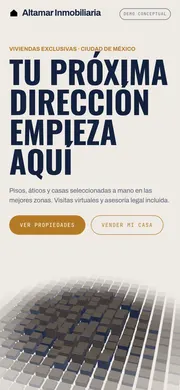
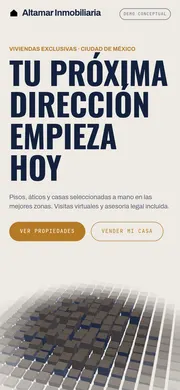
Ajustes: interlineado/tildes, etiquetas de tecnología, contraste en galería, docs

diff --git a/index.html b/index.html
@@ -22,7 +22,8 @@ h1 span{display:block} h1 span:last-child{color:#2f63ff}
 .hero p.l{margin-top:26px;max-width:640px;color:#a9adb8;font-size:clamp(15px,1.3vw,19px)}
 .links{margin-top:26px;display:flex;flex-wrap:wrap;gap:12px}
 .pill{display:inline-flex;align-items:center;height:40px;padding:0 20px;border-radius:99px;border:1.3px solid var(--a,#2f63ff);color:var(--a,#2f63ff);font-size:11px;transition:.25s}
-.pill.f{background:var(--a,#2f63ff);color:#0d0d0f}
+.pill.f{background:var(--a,#2f63ff);color:#fff;mix-blend-mode:normal}
+.pill:not(.f){color:#ececec}
 .pill:hover{background:#fff;border-color:#fff;color:#0d0d0f}
 .grid{display:grid;grid-template-columns:repeat(auto-fill,minmax(min(100%,420px),1fr));gap:clamp(18px,2vw,28px);padding:0 clamp(20px,4vw,56px) 12vh}
 .v{background:#16161a;border:1px solid #24242a;border-radius:10px;overflow:hidden;display:flex;flex-direction:column}
@@ -54,25 +55,25 @@ footer{border-top:1px solid #24242a;padding:24px clamp(20px,4vw,56px);font-size:
 </article><article class="v" style="--a:#0fa3a0">
   <a class="th" href="02-ogl/"><img src="thumbs/02-ogl.webp" width="800" height="500" loading="lazy" alt="Vista de escritorio de Clínica Dental Lumen"><img class="ph" src="thumbs/02-ogl-m.webp" width="180" height="390" loading="lazy" alt="Vista móvil"></a>
   <div class="meta"><span class="m n">02</span><h2 class="d">Clínica Dental Lumen</h2><p class="niche">Clínica dental</p>
-  <p class="tech m">OGL (≈ 8 KB gz usados)</p>
+  <p class="tech m">OGL (micro-librería WebGL)</p>
   <dl class="m"><div><dt>JS gzip</dt><dd>15.7 KB</dd></div><div><dt>Página gzip</dt><dd>84.5 KB</dd></div><div><dt>FPS móvil*</dt><dd>60.3</dd></div></dl>
   <div class="ac"><a class="pill f m" href="02-ogl/">Abrir demo</a><a class="pill m" href="https://github.com/0xDapa/escalatam-web-lab/tree/main/02-ogl">Código y notas</a></div></div>
 </article><article class="v" style="--a:#b47a26">
   <a class="th" href="03-twgl/"><img src="thumbs/03-twgl.webp" width="800" height="500" loading="lazy" alt="Vista de escritorio de Altamar Inmobiliaria"><img class="ph" src="thumbs/03-twgl-m.webp" width="180" height="390" loading="lazy" alt="Vista móvil"></a>
   <div class="meta"><span class="m n">03</span><h2 class="d">Altamar Inmobiliaria</h2><p class="niche">Inmobiliaria</p>
-  <p class="tech m">TWGL (helpers WebGL, ≈ 12 KB gz)</p>
+  <p class="tech m">TWGL (helpers WebGL2)</p>
   <dl class="m"><div><dt>JS gzip</dt><dd>15.4 KB</dd></div><div><dt>Página gzip</dt><dd>82.2 KB</dd></div><div><dt>FPS móvil*</dt><dd>60.0</dd></div></dl>
   <div class="ac"><a class="pill f m" href="03-twgl/">Abrir demo</a><a class="pill m" href="https://github.com/0xDapa/escalatam-web-lab/tree/main/03-twgl">Código y notas</a></div></div>
 </article><article class="v" style="--a:#c6ff00">
   <a class="th" href="04-regl/"><img src="thumbs/04-regl.webp" width="800" height="500" loading="lazy" alt="Vista de escritorio de Pulso Fitness"><img class="ph" src="thumbs/04-regl-m.webp" width="180" height="390" loading="lazy" alt="Vista móvil"></a>
   <div class="meta"><span class="m n">04</span><h2 class="d">Pulso Fitness</h2><p class="niche">Gimnasio / box</p>
-  <p class="tech m">regl (WebGL funcional, ≈ 26 KB gz)</p>
+  <p class="tech m">regl (WebGL funcional)</p>
   <dl class="m"><div><dt>JS gzip</dt><dd>33.2 KB</dd></div><div><dt>Página gzip</dt><dd>96.3 KB</dd></div><div><dt>FPS móvil*</dt><dd>60.0</dd></div></dl>
   <div class="ac"><a class="pill f m" href="04-regl/">Abrir demo</a><a class="pill m" href="https://github.com/0xDapa/escalatam-web-lab/tree/main/04-regl">Código y notas</a></div></div>
 </article><article class="v" style="--a:#8a1c2b">
   <a class="th" href="05-picogl/"><img src="thumbs/05-picogl.webp" width="800" height="500" loading="lazy" alt="Vista de escritorio de Ortega &amp; Vidal"><img class="ph" src="thumbs/05-picogl-m.webp" width="180" height="390" loading="lazy" alt="Vista móvil"></a>
   <div class="meta"><span class="m n">05</span><h2 class="d">Ortega &amp; Vidal</h2><p class="niche">Despacho de abogados</p>
-  <p class="tech m">PicoGL (WebGL2, ≈ 20 KB gz)</p>
+  <p class="tech m">PicoGL (WebGL2 mínimo)</p>
   <dl class="m"><div><dt>JS gzip</dt><dd>17.4 KB</dd></div><div><dt>Página gzip</dt><dd>82.6 KB</dd></div><div><dt>FPS móvil*</dt><dd>60.3</dd></div></dl>
   <div class="ac"><a class="pill f m" href="05-picogl/">Abrir demo</a><a class="pill m" href="https://github.com/0xDapa/escalatam-web-lab/tree/main/05-picogl">Código y notas</a></div></div>
 </article><article class="v" style="--a:#ff2e63">
@@ -84,7 +85,7 @@ footer{border-top:1px solid #24242a;padding:24px clamp(20px,4vw,56px);font-size:
 </article><article class="v" style="--a:#c0592b">
   <a class="th" href="07-zdog/"><img src="thumbs/07-zdog.webp" width="800" height="500" loading="lazy" alt="Vista de escritorio de Tueste Lento"><img class="ph" src="thumbs/07-zdog-m.webp" width="180" height="390" loading="lazy" alt="Vista móvil"></a>
   <div class="meta"><span class="m n">07</span><h2 class="d">Tueste Lento</h2><p class="niche">Cafetería de especialidad</p>
-  <p class="tech m">Zdog (pseudo-3D plano, ≈ 9 KB gz)</p>
+  <p class="tech m">Zdog (pseudo-3D en Canvas 2D)</p>
   <dl class="m"><div><dt>JS gzip</dt><dd>9.6 KB</dd></div><div><dt>Página gzip</dt><dd>108.2 KB</dd></div><div><dt>FPS móvil*</dt><dd>60.0</dd></div></dl>
   <div class="ac"><a class="pill f m" href="07-zdog/">Abrir demo</a><a class="pill m" href="https://github.com/0xDapa/escalatam-web-lab/tree/main/07-zdog">Código y notas</a></div></div>
 </article><article class="v" style="--a:#ff5d3b">

diff --git a/05-picogl/core.css b/05-picogl/core.css
@@ -32,7 +32,7 @@ a{color:inherit;text-decoration:none}
 .copy{position:relative;z-index:3;padding:clamp(150px,30vh,300px) 0 90px clamp(20px,15vw,218px);max-width:min(760px,62vw);pointer-events:none}
 .copy a{pointer-events:auto}
 .over{font:700 clamp(12px,1.25vw,18px)/1 Body,sans-serif;text-transform:uppercase;color:var(--acc)}
-.hl{margin-top:10px;font-size:clamp(54px,7.9vw,124px);line-height:.95;color:var(--fg)}
+.hl{margin-top:10px;font-size:clamp(54px,7.9vw,124px);line-height:1;color:var(--fg)}
 .lede{margin-top:22px;font-size:clamp(14px,1.2vw,18px);color:var(--mut);max-width:440px}
 .btns{margin-top:22px;display:flex;flex-wrap:wrap;gap:12px}
 .pill{display:inline-flex;align-items:center;height:42px;padding:0 22px;border-radius:999px;border:1.3px solid var(--acc);font-family:Mono,monospace;font-size:11.5px;letter-spacing:.09em;text-transform:uppercase;color:var(--acc);transition:background .25s,color .25s}
@@ -107,3 +107,6 @@ a{color:inherit;text-decoration:none}
  .giant{font-size:52vw}
 }
 @media (prefers-reduced-motion:reduce){.js .rv .ln{clip-path:none}.js .rv.in .ln,.js .rv.in .ln::before,.js .rv.in .ln::after{animation:none}.js .fu{opacity:1;transform:none}}
+
+/* ---- hero de esta variante ---- */
+.hl{line-height:1.02}

diff --git a/03-twgl/index.html b/03-twgl/index.html
@@ -30,7 +30,7 @@
   <div class="stage" id="stage" aria-hidden="true"></div>
   <div class="copy">
     <p class="over fu" style="--d:0ms">Viviendas exclusivas · Ciudad de México</p>
-    <h1 class="hl d rv"><span class="ln" style="--i:0" data-t="Tu próxima">Tu próxima</span><span class="ln" style="--i:1" data-t="dirección">dirección</span><span class="ln" style="--i:2" data-t="empieza">empieza</span><span class="ln" style="--i:3" data-t="aquí">aquí</span></h1>
+    <h1 class="hl d rv"><span class="ln" style="--i:0" data-t="Tu próxima">Tu próxima</span><span class="ln" style="--i:1" data-t="dirección">dirección</span><span class="ln" style="--i:2" data-t="empieza">empieza</span><span class="ln" style="--i:3" data-t="hoy">hoy</span></h1>
     <p class="lede fu" style="--d:450ms">Pisos, áticos y casas seleccionadas a mano en las mejores zonas. Visitas virtuales y asesoría legal incluida.</p>
     <div class="btns fu" style="--d:600ms"><a class="pill f" href="#contacto">Ver propiedades</a><a class="pill" href="#servicios">Vender mi casa</a></div>
   </div>

diff --git a/05-picogl/index.html b/05-picogl/index.html
@@ -30,7 +30,7 @@
   <div class="stage" id="stage" aria-hidden="true"></div>
   <div class="copy">
     <p class="over fu" style="--d:0ms">Abogados · Buenos Aires</p>
-    <h1 class="hl d rv"><span class="ln" style="--i:0" data-t="Defendemos">Defendemos</span><span class="ln" style="--i:1" data-t="lo que">lo que</span><span class="ln" style="--i:2" data-t="más importa">más importa</span></h1>
+    <h1 class="hl d rv"><span class="ln" style="--i:0" data-t="Defendemos">Defendemos</span><span class="ln" style="--i:1" data-t="lo que">lo que</span><span class="ln" style="--i:2" data-t="te importa">te importa</span></h1>
     <p class="lede fu" style="--d:450ms">Derecho civil, laboral y de familia con más de 20 años de experiencia. Primera consulta en 24 horas.</p>
     <div class="btns fu" style="--d:600ms"><a class="pill f" href="#contacto">Consulta inicial</a><a class="pill" href="#servicios">Áreas de práctica</a></div>
   </div>

diff --git a/01-webgl2-puro/core.css b/01-webgl2-puro/core.css
@@ -32,7 +32,7 @@ a{color:inherit;text-decoration:none}
 .copy{position:relative;z-index:3;padding:clamp(150px,30vh,300px) 0 90px clamp(20px,15vw,218px);max-width:min(760px,62vw);pointer-events:none}
 .copy a{pointer-events:auto}
 .over{font:700 clamp(12px,1.25vw,18px)/1 Body,sans-serif;text-transform:uppercase;color:var(--acc)}
-.hl{margin-top:10px;font-size:clamp(54px,7.9vw,124px);line-height:.95;color:var(--fg)}
+.hl{margin-top:10px;font-size:clamp(54px,7.9vw,124px);line-height:1;color:var(--fg)}
 .lede{margin-top:22px;font-size:clamp(14px,1.2vw,18px);color:var(--mut);max-width:440px}
 .btns{margin-top:22px;display:flex;flex-wrap:wrap;gap:12px}
 .pill{display:inline-flex;align-items:center;height:42px;padding:0 22px;border-radius:999px;border:1.3px solid var(--acc);font-family:Mono,monospace;font-size:11.5px;letter-spacing:.09em;text-transform:uppercase;color:var(--acc);transition:background .25s,color .25s}

diff --git a/02-ogl/core.css b/02-ogl/core.css
@@ -32,7 +32,7 @@ a{color:inherit;text-decoration:none}
 .copy{position:relative;z-index:3;padding:clamp(150px,30vh,300px) 0 90px clamp(20px,15vw,218px);max-width:min(760px,62vw);pointer-events:none}
 .copy a{pointer-events:auto}
 .over{font:700 clamp(12px,1.25vw,18px)/1 Body,sans-serif;text-transform:uppercase;color:var(--acc)}
-.hl{margin-top:10px;font-size:clamp(54px,7.9vw,124px);line-height:.95;color:var(--fg)}
+.hl{margin-top:10px;font-size:clamp(54px,7.9vw,124px);line-height:1;color:var(--fg)}
 .lede{margin-top:22px;font-size:clamp(14px,1.2vw,18px);color:var(--mut);max-width:440px}
 .btns{margin-top:22px;display:flex;flex-wrap:wrap;gap:12px}
 .pill{display:inline-flex;align-items:center;height:42px;padding:0 22px;border-radius:999px;border:1.3px solid var(--acc);font-family:Mono,monospace;font-size:11.5px;letter-spacing:.09em;text-transform:uppercase;color:var(--acc);transition:background .25s,color .25s}

diff --git a/03-twgl/core.css b/03-twgl/core.css
@@ -32,7 +32,7 @@ a{color:inherit;text-decoration:none}
 .copy{position:relative;z-index:3;padding:clamp(150px,30vh,300px) 0 90px clamp(20px,15vw,218px);max-width:min(760px,62vw);pointer-events:none}
 .copy a{pointer-events:auto}
 .over{font:700 clamp(12px,1.25vw,18px)/1 Body,sans-serif;text-transform:uppercase;color:var(--acc)}
-.hl{margin-top:10px;font-size:clamp(54px,7.9vw,124px);line-height:.95;color:var(--fg)}
+.hl{margin-top:10px;font-size:clamp(54px,7.9vw,124px);line-height:1;color:var(--fg)}
 .lede{margin-top:22px;font-size:clamp(14px,1.2vw,18px);color:var(--mut);max-width:440px}
 .btns{margin-top:22px;display:flex;flex-wrap:wrap;gap:12px}
 .pill{display:inline-flex;align-items:center;height:42px;padding:0 22px;border-radius:999px;border:1.3px solid var(--acc);font-family:Mono,monospace;font-size:11.5px;letter-spacing:.09em;text-transform:uppercase;color:var(--acc);transition:background .25s,color .25s}

diff --git a/04-regl/core.css b/04-regl/core.css
@@ -32,7 +32,7 @@ a{color:inherit;text-decoration:none}
 .copy{position:relative;z-index:3;padding:clamp(150px,30vh,300px) 0 90px clamp(20px,15vw,218px);max-width:min(760px,62vw);pointer-events:none}
 .copy a{pointer-events:auto}
 .over{font:700 clamp(12px,1.25vw,18px)/1 Body,sans-serif;text-transform:uppercase;color:var(--acc)}
-.hl{margin-top:10px;font-size:clamp(54px,7.9vw,124px);line-height:.95;color:var(--fg)}
+.hl{margin-top:10px;font-size:clamp(54px,7.9vw,124px);line-height:1;color:var(--fg)}
 .lede{margin-top:22px;font-size:clamp(14px,1.2vw,18px);color:var(--mut);max-width:440px}
 .btns{margin-top:22px;display:flex;flex-wrap:wrap;gap:12px}
 .pill{display:inline-flex;align-items:center;height:42px;padding:0 22px;border-radius:999px;border:1.3px solid var(--acc);font-family:Mono,monospace;font-size:11.5px;letter-spacing:.09em;text-transform:uppercase;color:var(--acc);transition:background .25s,color .25s}

diff --git a/06-shader-raymarch/core.css b/06-shader-raymarch/core.css
@@ -32,7 +32,7 @@ a{color:inherit;text-decoration:none}
 .copy{position:relative;z-index:3;padding:clamp(150px,30vh,300px) 0 90px clamp(20px,15vw,218px);max-width:min(760px,62vw);pointer-events:none}
 .copy a{pointer-events:auto}
 .over{font:700 clamp(12px,1.25vw,18px)/1 Body,sans-serif;text-transform:uppercase;color:var(--acc)}
-.hl{margin-top:10px;font-size:clamp(54px,7.9vw,124px);line-height:.95;color:var(--fg)}
+.hl{margin-top:10px;font-size:clamp(54px,7.9vw,124px);line-height:1;color:var(--fg)}
 .lede{margin-top:22px;font-size:clamp(14px,1.2vw,18px);color:var(--mut);max-width:440px}
 .btns{margin-top:22px;display:flex;flex-wrap:wrap;gap:12px}
 .pill{display:inline-flex;align-items:center;height:42px;padding:0 22px;border-radius:999px;border:1.3px solid var(--acc);font-family:Mono,monospace;font-size:11.5px;letter-spacing:.09em;text-transform:uppercase;color:var(--acc);transition:background .25s,color .25s}

diff --git a/07-zdog/core.css b/07-zdog/core.css
@@ -32,7 +32,7 @@ a{color:inherit;text-decoration:none}
 .copy{position:relative;z-index:3;padding:clamp(150px,30vh,300px) 0 90px clamp(20px,15vw,218px);max-width:min(760px,62vw);pointer-events:none}
 .copy a{pointer-events:auto}
 .over{font:700 clamp(12px,1.25vw,18px)/1 Body,sans-serif;text-transform:uppercase;color:var(--acc)}
-.hl{margin-top:10px;font-size:clamp(54px,7.9vw,124px);line-height:.95;color:var(--fg)}
+.hl{margin-top:10px;font-size:clamp(54px,7.9vw,124px);line-height:1;color:var(--fg)}
 .lede{margin-top:22px;font-size:clamp(14px,1.2vw,18px);color:var(--mut);max-width:440px}
 .btns{margin-top:22px;display:flex;flex-wrap:wrap;gap:12px}
 .pill{display:inline-flex;align-items:center;height:42px;padding:0 22px;border-radius:999px;border:1.3px solid var(--acc);font-family:Mono,monospace;font-size:11.5px;letter-spacing:.09em;text-transform:uppercase;color:var(--acc);transition:background .25s,color .25s}

diff --git a/08-canvas2d-globo/core.css b/08-canvas2d-globo/core.css
@@ -32,7 +32,7 @@ a{color:inherit;text-decoration:none}
 .copy{position:relative;z-index:3;padding:clamp(150px,30vh,300px) 0 90px clamp(20px,15vw,218px);max-width:min(760px,62vw);pointer-events:none}
 .copy a{pointer-events:auto}
 .over{font:700 clamp(12px,1.25vw,18px)/1 Body,sans-serif;text-transform:uppercase;color:var(--acc)}
-.hl{margin-top:10px;font-size:clamp(54px,7.9vw,124px);line-height:.95;color:var(--fg)}
+.hl{margin-top:10px;font-size:clamp(54px,7.9vw,124px);line-height:1;color:var(--fg)}
 .lede{margin-top:22px;font-size:clamp(14px,1.2vw,18px);color:var(--mut);max-width:440px}
 .btns{margin-top:22px;display:flex;flex-wrap:wrap;gap:12px}
 .pill{display:inline-flex;align-items:center;height:42px;padding:0 22px;border-radius:999px;border:1.3px solid var(--acc);font-family:Mono,monospace;font-size:11.5px;letter-spacing:.09em;text-transform:uppercase;color:var(--acc);transition:background .25s,color .25s}

diff --git a/09-css3d/core.css b/09-css3d/core.css
@@ -32,7 +32,7 @@ a{color:inherit;text-decoration:none}
 .copy{position:relative;z-index:3;padding:clamp(150px,30vh,300px) 0 90px clamp(20px,15vw,218px);max-width:min(760px,62vw);pointer-events:none}
 .copy a{pointer-events:auto}
 .over{font:700 clamp(12px,1.25vw,18px)/1 Body,sans-serif;text-transform:uppercase;color:var(--acc)}
-.hl{margin-top:10px;font-size:clamp(54px,7.9vw,124px);line-height:.95;color:var(--fg)}
+.hl{margin-top:10px;font-size:clamp(54px,7.9vw,124px);line-height:1;color:var(--fg)}
 .lede{margin-top:22px;font-size:clamp(14px,1.2vw,18px);color:var(--mut);max-width:440px}
 .btns{margin-top:22px;display:flex;flex-wrap:wrap;gap:12px}
 .pill{display:inline-flex;align-items:center;height:42px;padding:0 22px;border-radius:999px;border:1.3px solid var(--acc);font-family:Mono,monospace;font-size:11.5px;letter-spacing:.09em;text-transform:uppercase;color:var(--acc);transition:background .25s,color .25s}
